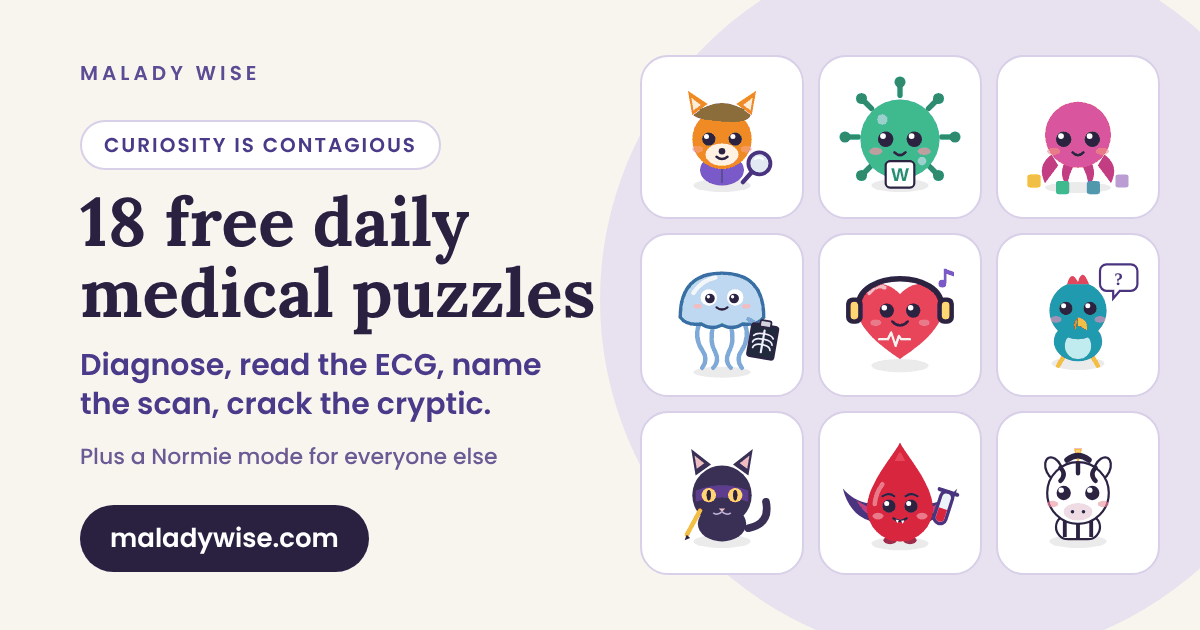
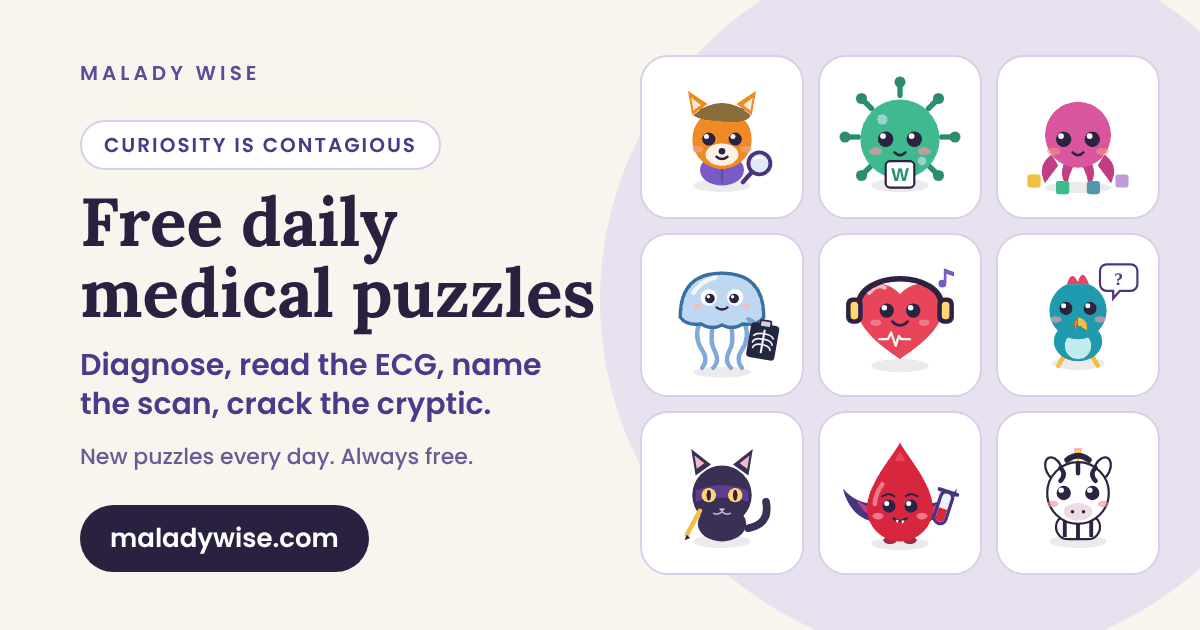
Home share card: no game count, no Normie line
Claude-Session: https://claude.ai/code/session_01CBByq29dY2cNCTmjZTgF1V

Changed region(s): [[0.0617, 0.3016, 0.4008, 0.4222], [0.0617, 0.6937, 0.4317, 0.754]]

diff --git a/rare-conditions/index.html b/rare-conditions/index.html
@@ -18,11 +18,11 @@
 <meta name="apple-mobile-web-app-title" content="Malady Wise">
 <meta property="og:title" content="Zebra Atlas: Rare Conditions by Rarity | Malady Wise">
 <meta property="og:description" content="Over 4,800 rare conditions with how rare each one is, from about 1 in 1,000 to case-report one-offs. Searchable, from Orphanet data.">
-<meta property="og:image" content="https://maladywise.com/assets/share.png?v=edc88140">
+<meta property="og:image" content="https://maladywise.com/assets/share.png?v=cd0d1496">
 <meta property="og:image:width" content="1200">
 <meta property="og:image:height" content="630">
-<meta property="og:image:alt" content="18 free daily medical puzzles: Diagnose, read the ECG, name the scan, crack the cryptic. Malady Wise">
-<meta name="twitter:image" content="https://maladywise.com/assets/share.png?v=edc88140">
+<meta property="og:image:alt" content="Free daily medical puzzles: Diagnose, read the ECG, name the scan, crack the cryptic. Malady Wise">
+<meta name="twitter:image" content="https://maladywise.com/assets/share.png?v=cd0d1496">
 <meta name="twitter:card" content="summary_large_image">
 <link rel="preload" href="/assets/fonts/poppins-latin-400-normal.woff2" as="font" type="font/woff2" crossorigin>
 <link rel="stylesheet" href="/assets/shell.css?v=285">
@@ -91,7 +91,7 @@
 <p class="note"><b>Malady Wise fact sheets.</b> Plain-English guides to some rarer conditions: <a href="/ehlers-danlos-syndrome/">Ehlers-Danlos syndromes</a>, <a href="/sarcoidosis/">sarcoidosis</a>, <a href="/eosinophilic-oesophagitis/">eosinophilic oesophagitis</a>, <a href="/myasthenia-gravis/">myasthenia gravis</a>, <a href="/addisons-disease/">Addison’s disease</a>, <a href="/porphyria/">porphyria</a>, <a href="/lupus/">lupus</a>, <a href="/scleroderma/">scleroderma</a>, <a href="/raynauds/">Raynaud’s</a>, <a href="/deep-dives/behcets/">Behçet’s disease</a>, <a href="/smith-magenis-syndrome/">Smith-Magenis syndrome</a>, <a href="/cteph/">CTEPH</a>. Rare disease days are in our <a href="/days/">health days calendar</a>.</p>
 <div id="nl-slot"></div>
 <!-- share-card -->
-<aside class="mw-sharecard" aria-label="Share this page"><p class="mw-sc-h">Share this page</p><img src="/assets/share.png?v=edc88140" width="1200" height="630" loading="lazy" decoding="async" alt="Share card: 18 free daily medical puzzles – Diagnose, read the ECG, name the scan, crack the cryptic"><p class="mw-sc-row"><button type="button" class="mw-sc-btn" data-mw-share>Share link</button></p></aside>
+<aside class="mw-sharecard" aria-label="Share this page"><p class="mw-sc-h">Share this page</p><img src="/assets/share.png?v=edc88140" width="1200" height="630" loading="lazy" decoding="async" alt="Share card: Free daily medical puzzles – Diagnose, read the ECG, name the scan, crack the cryptic"><p class="mw-sc-row"><button type="button" class="mw-sc-btn" data-mw-share>Share link</button></p></aside>
 <!-- /share-card -->
 <footer class="site">
 <!-- static-nav --><nav class="static-nav" aria-label="Site sections"><a href="/medical-games/">Puzzles</a> <a href="/conditions/" class="sn-med">Conditions</a> <a href="/medicines/" class="sn-med">Medicines</a> <a href="/blood-tests/" class="sn-med">Blood tests</a> <a href="/exercises/" class="sn-med">Exercises</a> <a href="/tools/" class="sn-med">Tools</a> <a href="/quizzes/">Quizzes</a> <a href="/specialists/" class="sn-med">Specialists</a> <a href="/days/">Health days</a></nav><!-- /static-nav -->

diff --git a/index.html b/index.html
@@ -25,11 +25,11 @@
 <meta property="og:title" content="Malady Wise: Free Daily Medical Puzzles and Games">
 <meta property="og:description" content="Curiosity is contagious. Free daily medical puzzles, overseen by an Australian GP: diagnose, read scans and ECGs, link, spell and solve. Free, no ads.">
 <meta property="og:url" content="https://maladywise.com/">
-<meta property="og:image" content="https://maladywise.com/assets/share.png?v=edc88140">
+<meta property="og:image" content="https://maladywise.com/assets/share.png?v=cd0d1496">
 <meta property="og:image:width" content="1200">
 <meta property="og:image:height" content="630">
-<meta property="og:image:alt" content="18 free daily medical puzzles: Diagnose, read the ECG, name the scan, crack the cryptic. Malady Wise">
-<meta name="twitter:image" content="https://maladywise.com/assets/share.png?v=edc88140">
+<meta property="og:image:alt" content="Free daily medical puzzles: Diagnose, read the ECG, name the scan, crack the cryptic. Malady Wise">
+<meta name="twitter:image" content="https://maladywise.com/assets/share.png?v=cd0d1496">
 <meta name="twitter:card" content="summary_large_image">
 <meta name="twitter:title" content="Malady Wise: Free Daily Medical Puzzles and Games">
 <meta name="twitter:description" content="Free daily medical puzzles, overseen by an Australian GP: diagnose, read scans and ECGs, link, spell and solve. Free, no ads.">
@@ -63,7 +63,7 @@
 <p class="mw-ab-quiz"><b>Practice quizzes:</b> <a href="/ct-quiz/">CT scan quiz</a> <span class="mw-new">New</span> · <a href="/mri-quiz/">MRI quiz</a> <span class="mw-new">New</span> · <a href="/ultrasound-quiz/">Ultrasound quiz</a> <span class="mw-new">New</span> · <a href="/nuclear-medicine-quiz/">Nuclear medicine quiz</a> <span class="mw-new">New</span> · <a href="/x-ray-quiz/">X-ray quiz</a> · <a href="/ecg-quiz/">ECG quiz</a> · <a href="/anatomy-quiz/">Anatomy quizzes</a></p>
 <p class="mw-ab-more"><a href="/medical-games/">See every game, with past puzzles and answers</a></p></section><!-- /mw-allgames -->
 <!-- share-card -->
-<aside class="mw-sharecard" aria-label="Share this page"><p class="mw-sc-h">Share this page</p><img src="/assets/share.png?v=edc88140" width="1200" height="630" loading="lazy" decoding="async" alt="Share card: 18 free daily medical puzzles – Diagnose, read the ECG, name the scan, crack the cryptic"><p class="mw-sc-row"><button type="button" class="mw-sc-btn" data-mw-share>Share link</button></p></aside>
+<aside class="mw-sharecard" aria-label="Share this page"><p class="mw-sc-h">Share this page</p><img src="/assets/share.png?v=edc88140" width="1200" height="630" loading="lazy" decoding="async" alt="Share card: Free daily medical puzzles – Diagnose, read the ECG, name the scan, crack the cryptic"><p class="mw-sc-row"><button type="button" class="mw-sc-btn" data-mw-share>Share link</button></p></aside>
 <!-- /share-card -->
 </main>
 <!-- static-nav --><nav class="static-nav" aria-label="Site sections"><a href="/medical-games/">Puzzles</a> <a href="/conditions/" class="sn-med">Conditions</a> <a href="/medicines/" class="sn-med">Medicines</a> <a href="/blood-tests/" class="sn-med">Blood tests</a> <a href="/exercises/" class="sn-med">Exercises</a> <a href="/tools/" class="sn-med">Tools</a> <a href="/quizzes/">Quizzes</a> <a href="/specialists/" class="sn-med">Specialists</a> <a href="/days/">Health days</a></nav><!-- /static-nav -->

diff --git a/privacy/index.html b/privacy/index.html
@@ -21,11 +21,11 @@
 <meta property="og:title" content="Privacy Policy | Malady Wise">
 <meta property="og:description" content="Malady Wise privacy: no accounts, ads or cookies. What GoatCounter, leaderboards, reports and Zebra Mail collect, where it’s stored and your rights.">
 <meta property="og:url" content="https://maladywise.com/privacy/">
-<meta property="og:image" content="https://maladywise.com/assets/share.png?v=edc88140">
+<meta property="og:image" content="https://maladywise.com/assets/share.png?v=cd0d1496">
 <meta property="og:image:width" content="1200">
 <meta property="og:image:height" content="630">
-<meta property="og:image:alt" content="18 free daily medical puzzles: Diagnose, read the ECG, name the scan, crack the cryptic. Malady Wise">
-<meta name="twitter:image" content="https://maladywise.com/assets/share.png?v=edc88140">
+<meta property="og:image:alt" content="Free daily medical puzzles: Diagnose, read the ECG, name the scan, crack the cryptic. Malady Wise">
+<meta name="twitter:image" content="https://maladywise.com/assets/share.png?v=cd0d1496">
 <meta name="twitter:card" content="summary_large_image">
 <link rel="preload" href="/assets/fonts/poppins-latin-400-normal.woff2" as="font" type="font/woff2" crossorigin>
 <script>try{var r=document.documentElement,t=localStorage.getItem("mw-theme");r.setAttribute("data-pre","");try{t=JSON.parse(t)}catch(e){}r.setAttribute("data-theme",t==="dark"||(t!=="light"&&matchMedia("(prefers-color-scheme: dark)").matches)?"dark":"light")}catch(e){}</script>
@@ -104,7 +104,7 @@
 <p>Email <a href="mailto:maladywise@gmail.com">maladywise@gmail.com</a> with any privacy question or request. We’ll reply within 30 days.</p>
 <p class="meta"><em>Last updated 8 November 2026.</em></p>
 <!-- share-card -->
-<aside class="mw-sharecard" aria-label="Share this page"><p class="mw-sc-h">Share this page</p><img src="/assets/share.png?v=edc88140" width="1200" height="630" loading="lazy" decoding="async" alt="Share card: 18 free daily medical puzzles – Diagnose, read the ECG, name the scan, crack the cryptic"><p class="mw-sc-row"><button type="button" class="mw-sc-btn" data-mw-share>Share link</button></p></aside>
+<aside class="mw-sharecard" aria-label="Share this page"><p class="mw-sc-h">Share this page</p><img src="/assets/share.png?v=edc88140" width="1200" height="630" loading="lazy" decoding="async" alt="Share card: Free daily medical puzzles – Diagnose, read the ECG, name the scan, crack the cryptic"><p class="mw-sc-row"><button type="button" class="mw-sc-btn" data-mw-share>Share link</button></p></aside>
 <!-- /share-card -->
 <footer class="site">
 <!-- static-nav --><nav class="static-nav" aria-label="Site sections"><a href="/medical-games/">Puzzles</a> <a href="/conditions/" class="sn-med">Conditions</a> <a href="/medicines/" class="sn-med">Medicines</a> <a href="/blood-tests/" class="sn-med">Blood tests</a> <a href="/exercises/" class="sn-med">Exercises</a> <a href="/tools/" class="sn-med">Tools</a> <a href="/quizzes/">Quizzes</a> <a href="/specialists/" class="sn-med">Specialists</a> <a href="/days/">Health days</a></nav><!-- /static-nav -->

diff --git a/contact/index.html b/contact/index.html
@@ -18,11 +18,11 @@
 <meta name="apple-mobile-web-app-title" content="Malady Wise">
 <meta property="og:title" content="Contact | Malady Wise">
 <meta property="og:description" content="Contact Malady Wise: questions, puzzle corrections and ideas.">
-<meta property="og:image" content="https://maladywise.com/assets/share.png?v=edc88140">
+<meta property="og:image" content="https://maladywise.com/assets/share.png?v=cd0d1496">
 <meta property="og:image:width" content="1200">
 <meta property="og:image:height" content="630">
-<meta property="og:image:alt" content="18 free daily medical puzzles: Diagnose, read the ECG, name the scan, crack the cryptic. Malady Wise">
-<meta name="twitter:image" content="https://maladywise.com/assets/share.png?v=edc88140">
+<meta property="og:image:alt" content="Free daily medical puzzles: Diagnose, read the ECG, name the scan, crack the cryptic. Malady Wise">
+<meta name="twitter:image" content="https://maladywise.com/assets/share.png?v=cd0d1496">
 <meta name="twitter:card" content="summary_large_image">
 <link rel="preload" href="/assets/fonts/poppins-latin-400-normal.woff2" as="font" type="font/woff2" crossorigin>
 <script>try{var r=document.documentElement,t=localStorage.getItem("mw-theme");r.setAttribute("data-pre","");try{t=JSON.parse(t)}catch(e){}r.setAttribute("data-theme",t==="dark"||(t!=="light"&&matchMedia("(prefers-color-scheme: dark)").matches)?"dark":"light")}catch(e){}</script>
@@ -45,7 +45,7 @@
 <p><a href="https://x.com/MaladyWise">@MaladyWise on X</a></p>
 <p class="callout"><b>We can’t answer personal health questions.</b> For advice about your own health, see your GP. In an emergency, call 000 (Australia) or your local emergency number. From a mobile, 112 works in most countries.</p>
 <!-- share-card -->
-<aside class="mw-sharecard" aria-label="Share this page"><p class="mw-sc-h">Share this page</p><img src="/assets/share.png?v=edc88140" width="1200" height="630" loading="lazy" decoding="async" alt="Share card: 18 free daily medical puzzles – Diagnose, read the ECG, name the scan, crack the cryptic"><p class="mw-sc-row"><button type="button" class="mw-sc-btn" data-mw-share>Share link</button></p></aside>
+<aside class="mw-sharecard" aria-label="Share this page"><p class="mw-sc-h">Share this page</p><img src="/assets/share.png?v=edc88140" width="1200" height="630" loading="lazy" decoding="async" alt="Share card: Free daily medical puzzles – Diagnose, read the ECG, name the scan, crack the cryptic"><p class="mw-sc-row"><button type="button" class="mw-sc-btn" data-mw-share>Share link</button></p></aside>
 <!-- /share-card -->
 <footer class="site">
 <!-- static-nav --><nav class="static-nav" aria-label="Site sections"><a href="/medical-games/">Puzzles</a> <a href="/conditions/" class="sn-med">Conditions</a> <a href="/medicines/" class="sn-med">Medicines</a> <a href="/blood-tests/" class="sn-med">Blood tests</a> <a href="/exercises/" class="sn-med">Exercises</a> <a href="/tools/" class="sn-med">Tools</a> <a href="/quizzes/">Quizzes</a> <a href="/specialists/" class="sn-med">Specialists</a> <a href="/days/">Health days</a></nav><!-- /static-nav -->

diff --git a/disclaimer/index.html b/disclaimer/index.html
@@ -21,11 +21,11 @@
 <meta property="og:title" content="Disclaimer | Malady Wise">
 <meta property="og:description" content="Malady Wise disclaimer: general education, not personal medical advice.">
 <meta property="og:url" content="https://maladywise.com/disclaimer/">
-<meta property="og:image" content="https://maladywise.com/assets/share.png?v=edc88140">
+<meta property="og:image" content="https://maladywise.com/assets/share.png?v=cd0d1496">
 <meta property="og:image:width" content="1200">
 <meta property="og:image:height" content="630">
-<meta property="og:image:alt" content="18 free daily medical puzzles: Diagnose, read the ECG, name the scan, crack the cryptic. Malady Wise">
-<meta name="twitter:image" content="https://maladywise.com/assets/share.png?v=edc88140">
+<meta property="og:image:alt" content="Free daily medical puzzles: Diagnose, read the ECG, name the scan, crack the cryptic. Malady Wise">
+<meta name="twitter:image" content="https://maladywise.com/assets/share.png?v=cd0d1496">
 <meta name="twitter:card" content="summary_large_image">
 <link rel="preload" href="/assets/fonts/poppins-latin-400-normal.woff2" as="font" type="font/woff2" crossorigin>
 <script>try{var r=document.documentElement,t=localStorage.getItem("mw-theme");r.setAttribute("data-pre","");try{t=JSON.parse(t)}catch(e){}r.setAttribute("data-theme",t==="dark"||(t!=="light"&&matchMedia("(prefers-color-scheme: dark)").matches)?"dark":"light")}catch(e){}</script>
@@ -58,7 +58,7 @@
 <p>Malady Wise doesn't accept payment to recommend products, services or practitioners. If that ever changes, we'll say so clearly.</p>
 <p class="meta"><em>Last updated 28 October 2026.</em></p>
 <!-- share-card -->
-<aside class="mw-sharecard" aria-label="Share this page"><p class="mw-sc-h">Share this page</p><img src="/assets/share.png?v=edc88140" width="1200" height="630" loading="lazy" decoding="async" alt="Share card: 18 free daily medical puzzles – Diagnose, read the ECG, name the scan, crack the cryptic"><p class="mw-sc-row"><button type="button" class="mw-sc-btn" data-mw-share>Share link</button></p></aside>
+<aside class="mw-sharecard" aria-label="Share this page"><p class="mw-sc-h">Share this page</p><img src="/assets/share.png?v=edc88140" width="1200" height="630" loading="lazy" decoding="async" alt="Share card: Free daily medical puzzles – Diagnose, read the ECG, name the scan, crack the cryptic"><p class="mw-sc-row"><button type="button" class="mw-sc-btn" data-mw-share>Share link</button></p></aside>
 <!-- /share-card -->
 <footer class="site">
 <!-- static-nav --><nav class="static-nav" aria-label="Site sections"><a href="/medical-games/">Puzzles</a> <a href="/conditions/" class="sn-med">Conditions</a> <a href="/medicines/" class="sn-med">Medicines</a> <a href="/blood-tests/" class="sn-med">Blood tests</a> <a href="/exercises/" class="sn-med">Exercises</a> <a href="/tools/" class="sn-med">Tools</a> <a href="/quizzes/">Quizzes</a> <a href="/specialists/" class="sn-med">Specialists</a> <a href="/days/">Health days</a></nav><!-- /static-nav -->

diff --git a/about/index.html b/about/index.html
@@ -18,11 +18,11 @@
 <meta name="apple-mobile-web-app-title" content="Malady Wise">
 <meta property="og:title" content="About Malady Wise | Malady Wise">
 <meta property="og:description" content="About Malady Wise: free daily medical puzzles, plain-English health fact sheets and medicine guides, drafted with AI tools and overseen by an Australian GP.">
-<meta property="og:image" content="https://maladywise.com/assets/share.png?v=edc88140">
+<meta property="og:image" content="https://maladywise.com/assets/share.png?v=cd0d1496">
 <meta property="og:image:width" content="1200">
 <meta property="og:image:height" content="630">
-<meta property="og:image:alt" content="18 free daily medical puzzles: Diagnose, read the ECG, name the scan, crack the cryptic. Malady Wise">
-<meta name="twitter:image" content="https://maladywise.com/assets/share.png?v=edc88140">
+<meta property="og:image:alt" content="Free daily medical puzzles: Diagnose, read the ECG, name the scan, crack the cryptic. Malady Wise">
+<meta name="twitter:image" content="https://maladywise.com/assets/share.png?v=cd0d1496">
 <meta name="twitter:card" content="summary_large_image">
 <link rel="preload" href="/assets/fonts/poppins-latin-400-normal.woff2" as="font" type="font/woff2" crossorigin>
 <script>try{var r=document.documentElement,t=localStorage.getItem("mw-theme");r.setAttribute("data-pre","");try{t=JSON.parse(t)}catch(e){}r.setAttribute("data-theme",t==="dark"||(t!=="light"&&matchMedia("(prefers-color-scheme: dark)").matches)?"dark":"light")}catch(e){}</script>
@@ -66,7 +66,7 @@
 <p>Spotted an error, or have a puzzle idea? Email <a href="mailto:maladywise@gmail.com">maladywise@gmail.com</a> or find <a href="https://x.com/MaladyWise">@MaladyWise on X</a>. We can’t answer personal health questions.</p>
 <p>Enjoying the puzzles? <a href="https://ko-fi.com/maladywise" target="_blank" rel="noopener">Buy me a coffee ☕</a>. It keeps the site free and ad-free.</p>
 <!-- share-card -->
-<aside class="mw-sharecard" aria-label="Share this page"><p class="mw-sc-h">Share this page</p><img src="/assets/share.png?v=edc88140" width="1200" height="630" loading="lazy" decoding="async" alt="Share card: 18 free daily medical puzzles – Diagnose, read the ECG, name the scan, crack the cryptic"><p class="mw-sc-row"><button type="button" class="mw-sc-btn" data-mw-share>Share link</button></p></aside>
+<aside class="mw-sharecard" aria-label="Share this page"><p class="mw-sc-h">Share this page</p><img src="/assets/share.png?v=edc88140" width="1200" height="630" loading="lazy" decoding="async" alt="Share card: Free daily medical puzzles – Diagnose, read the ECG, name the scan, crack the cryptic"><p class="mw-sc-row"><button type="button" class="mw-sc-btn" data-mw-share>Share link</button></p></aside>
 <!-- /share-card -->
 <section class="related" data-also><h2>Related</h2><ul><li data-also><a href="/site-stats/"><span>Fact sheet</span>Games played</a></li></ul></section>
 <div id="nl-slot"></div>

diff --git a/_scripts/key_cards.py b/_scripts/key_cards.py
@@ -376,11 +376,11 @@ def archives(path):
 
 
 CARDS = [
-    hub("home", "/", "18 free daily medical puzzles", "Curiosity is contagious",
+    hub("home", "/", "Free daily medical puzzles", "Curiosity is contagious",
         "Diagnose, read the ECG, name the scan, crack the cryptic.",
         ["mascots/dx.svg", "mascots/wordemic.svg", "mascots/comorbix.svg", "mascots/opacitis.svg?v=2", "mascots/arrhythmix.svg",
          "mascots/triviosis.svg", "mascots/cryptogenic.svg", "mascots/panelysis.svg", "mascots/zebritis.svg"],
-        file="assets/share.png", foot="Plus a Normie mode for everyone else", big=True,
+        file="assets/share.png", foot="New puzzles every day. Always free.", big=True,
         urls=["/", "/about/", "/contact/", "/privacy/", "/disclaimer/", "/rare-conditions/"]),
     hub("medical-games", "/medical-games/", "Medical games and quizzes", "All the puzzles",
         "Daily puzzles, practice quizzes and arcade games.",
